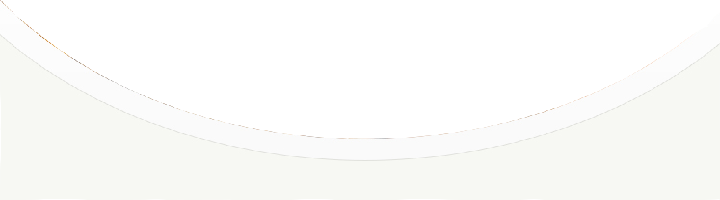
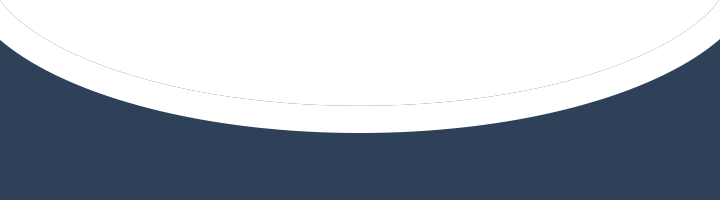
new theme

diff --git a/www/index.html b/www/index.html
@@ -34,7 +34,7 @@
 
                     <!--navigation btn goback class-->
                     <a  onclick="app.homeLink();" style="display: none;" data-activates="slide-out" class="nHeader goBack">
-                        <i class="fa fa-angle-left fa-2x" style="color:#ff7800"></i>
+                        <i class="fa fa-angle-left fa-2x" style="color:#fff"></i>
                     </a>
 
                     <!--Logo -->
@@ -44,7 +44,8 @@
 
                     <!--MEssage btn -->
                     <a id="msg_ico" class="msg_a dHeader2 auth" style="display: none;" onclick="app.chatLink();">
-                        <img src="img/ENGFeel_rakendus_avaleht_uus_06.jpg" class="msg_icon">
+<!--                        <img src="img/ENGFeel_rakendus_avaleht_uus_06.jpg" class="msg_icon">-->
+<i class="fa fa-comments fa-2x msg_icon" aria-hidden="true" ></i>
                         <span class="msgCount"></span>
                     </a>
 
@@ -73,7 +74,7 @@
                 </div>
 
                 <a  data-activates="slide-out" class="button-collapse auth" style="display:none">
-                    <i class="mdi-navigation-menu dHeader" style="color:#666666"></i>
+                    <i class="mdi-navigation-menu dHeader" style="color:#fff"></i>
                 </a>
 
 
@@ -138,7 +139,7 @@
 
             <div class="owl-carousel">
             </div>
-            <div class="center" style="width: 100% !important;position: relative;top: -67px;z-index: 1;height: 100px;">
+            <div class="center" style="width: 100% !important;position: relative;top: -58px;z-index: 1;height: 30px;">
                 <img src="img/profile_bakground_bottom_03.png" width="100% !important" style="
     opacity: 1 !important;
     z-index: 100;
@@ -303,31 +304,31 @@
             <form class="col s12" role="form" id="signupForm" enctype="multipart/form-data" action="/site/signup" onsubmit="event.preventDefault();app.signupForm(this);" method="post">
                 <div class="row">
                     <div class="input-field col s12">
-                        <input id="u_name" type="text" name="u_name"  class="validate">
+                        <input id="u_name" type="text" name="u_name"  class="validate" style="color:#fff;">
                         <label for="email">Name</label>
                     </div>
                 </div>
                 <div class="row">
                     <div class="input-field col s12">
-                        <input id="email" type="text" name="u_email" class="validate">
+                        <input id="email" type="text" name="u_email" class="validate" style="color:#fff;">
                         <label for="email">Email</label>
                     </div>
                 </div>
                 <div class="row">
                     <div class="input-field col s12">
-                        <input id="password" name="u_password" type="password" class="validate">
+                        <input id="password" name="u_password" type="password" class="validate" style="color:#fff;">
                         <label for="password" >Password</label>
                     </div>
                 </div>
                 <div class="row">
                     <div class="input-field col s12">
-                        <input id="u_contact" type="text" name="u_contact" class="validate">
+                        <input id="u_contact" type="text" name="u_contact" class="validate" style="color:#fff;">
                         <label for="u_contact">Contact</label>
                     </div>
                 </div>
                 <div class="row">
                     <div class="input-field col s12">
-                        <input id="u_age" type="number" name="u_age" class="validate">
+                        <input id="u_age" type="number" name="u_age" class="validate" style="color:#fff;">
                         <label for="u_age">Age</label>
                     </div>
                 </div>
@@ -431,9 +432,9 @@
                 <br>
                 <br>
                 <br>
-                <img width="60px" src="img/Feelwhite.png">
+                <!--<img width="60px" src="img/Feelwhite.png">-->
                 <br>
-                <p>feel version 1.0</p>
+                <p>version 1.0</p>
                 <br>
                 <br>
                 <div class="col s12 m12  center" >
@@ -450,7 +451,7 @@
     <script type="text/html" id="couponTemplate">
         <div class="couponss">
 
-        <h4 class="center">My coupons</h4>
+        <h4 class="center" style="color:#fff">My coupons</h4>
         <ul class="collection">
             <li class="collection-item row">
                 <div class="col s3 padding0">
@@ -569,7 +570,7 @@
         </div>
         <div class="row sendForm">
             <div class="col s12">
-                <input type="text" style="width: 80%;" id="messageInput">
+                <input type="text" style="width: 85%;color:white;" id="messageInput">
                 <button type="button" class="btn btn-floating " onclick="chat.clickSendMessage();"><i class="fa fa-send"></i></button>
             </div>
         </div>
@@ -614,17 +615,17 @@
 
             </div>
             <br>
-            <p>Show users aged: <span id="ageText" class="orange-text">25 - 30</span></p>
+            <p>Show users aged: <span id="ageText" >25 - 30</span></p>
 
             <div id="test5" class="margin10"></div>
 
             <br>
-                <p>Distance: <span class="orange-text"><span id="distanceText">_u_interest_distance_</span> km</span> </p>
+                <p>Distance: <span><span id="distanceText">_u_interest_distance_</span> km</span> </p>
                 <p class="range-field margin10">
                     <input type="range" id="distanceInput" min="0" max="100" value="_u_interest_distance_"/>
                 </p>
                 <p>Free coupon :
-                    <span ><span id="couponText" class="orange-text">_u_coupon_like_</span> likes</span>
+                    <span ><span id="couponText" >_u_coupon_like_</span> likes</span>
                     <a href="#aboutCoupon" class="modal-trigger right" style="color: #fff;"><i class="fa fa-question-circle" style="font-size: large;"></i>&nbsp;&nbsp;&nbsp;</a>
                 </p>
                 <p class="range-field margin10" >
@@ -633,19 +634,19 @@
             <div class="row ">
 
             <div class="col s6 padding5" >
-                <button onclick="app.notificationLink();" class="wordwrap btn  btn-round white black-text">Notifications</button>
+                <button onclick="app.notificationLink();" class="wordwrap btn  btn-round white" style="color:#fff" >Notifications</button>
 
             </div>
             <div class="col s6 padding5" >
-                <button class="wordwrap btn btn-round white black-text ">Report a problem</button>
+                <button class="wordwrap btn btn-round white " style="color:#fff">Report a problem</button>
             </div>
             </div>
             <div class="row">
             <div class="col s6 padding5" >
-                <button class="wordwrap btn btn-round white black-text">invite friends</button>
+                <button class="wordwrap btn btn-round white " style="color:#fff">invite friends</button>
             </div>
             <div class="col s6 padding5" >
-                <button class="wordwrap btn btn-round white black-text">need help?</button>
+                <button class="wordwrap btn btn-round white " style="color:#fff">need help?</button>
             </div>
             </div>
             <div class="col-s12" >
@@ -669,13 +670,13 @@
                 <input type="hidden" name="d_device_id">
                 <div class="row">
                     <div class="input-field col s12">
-                        <input id="email" type="text" name="u_email" class="validate">
+                        <input id="email" type="text" name="u_email" class="validate" style="color:#fff;">
                         <label for="email">Email</label>
                     </div>
                 </div>
                 <div class="row">
                     <div class="input-field col s12">
-                        <input id="password" name="u_password" type="password" class="validate">
+                        <input id="password" name="u_password" type="password" class="validate" style="color:#fff;">
                         <label for="password" >Password</label>
                     </div>
                 </div>
@@ -692,7 +693,7 @@
                 <br>
                 <div class="row">
                     <div class="col s6 m6 ">
-                        <h5 class="center">Sign in with</h5>
+                        <h5 class="center" style="color:#fff;">Sign in with</h5>
                     </div>
                     <div class="col s6 m6">
                         <a href="#" onclick="myFacebookLogin();"><i class="fa fa-facebook-square fa-3x " style="color:#3b5998;vertical-align: middle;"></i>&nbsp;Facebook</a>

diff --git a/www/libs/materialize/css/materialize.css b/www/libs/materialize/css/materialize.css
@@ -1308,7 +1308,7 @@
 }
 
 .light-green.accent-4 {
-  background-color: #fcfcfc !important;
+  background-color: #1a2b41 !important;
 }
 
 .light-green-text.text-accent-4 {
@@ -2108,7 +2108,7 @@
 }
 
 .grey.darken-4 {
-  background-color: #212121 !important;
+  background-color: #2f4158 !important;
   padding: 0 20px 0px 20px;
 }
 
@@ -2145,7 +2145,7 @@
 }
 
 .black-text {
-  color: #000000 !important;
+  color: #fff !important;
 }
 
 .white {
@@ -2594,7 +2594,7 @@ ul {
 }
 
 a {
-  color: #039be5;
+  color: #fff;
   text-decoration: none;
   -webkit-tap-highlight-color: transparent;
 }
@@ -7523,7 +7523,7 @@ html {
   line-height: 1.5;
   font-family: "Roboto", sans-serif;
   font-weight: normal;
-  color: rgba(0, 0, 0, 0.87);
+  color: #1a2b41;
 }
 
 @media only screen and (min-width: 0) {
@@ -8092,7 +8092,7 @@ small {
 .btn, .btn-large {
   text-decoration: none;
   color: #fff;
-  background-color: #ff7800;
+  background-color: #d9635b !important;
   text-align: center;
   letter-spacing: .5px;
   transition: .2s ease-out;
@@ -8100,7 +8100,7 @@ small {
 }
 
 .btn:hover, .btn-large:hover {
-  background-color: #ff7800;
+  background-color: #d9635b;
 }
 
 .btn-floating {
@@ -8698,7 +8698,7 @@ input[type=search],
 textarea.materialize-textarea {
   background-color: transparent;
   border: none;
-  border-bottom: 1px solid #9e9e9e;
+  border-bottom: 1px solid #fff;
   border-radius: 0;
   outline: none;
   height: 3rem;
@@ -8776,8 +8776,8 @@ input[type=tel]:focus:not([readonly]),
 input[type=number]:focus:not([readonly]),
 input[type=search]:focus:not([readonly]),
 textarea.materialize-textarea:focus:not([readonly]) {
-  border-bottom: 1px solid #ff7800;
-  box-shadow: 0 1px 0 0 #ff7800;
+  border-bottom: 1px solid #fff;
+  box-shadow: 0 1px 0 0 #fff;
 }
 
 input:not([type]):focus:not([readonly]) + label,
@@ -8792,7 +8792,7 @@ input[type=tel]:focus:not([readonly]) + label,
 input[type=number]:focus:not([readonly]) + label,
 input[type=search]:focus:not([readonly]) + label,
 textarea.materialize-textarea:focus:not([readonly]) + label {
-  color: #ff7800;
+  color: #fff;
 }
 
 input:not([type]).valid, input:not([type]):focus.valid,
@@ -8933,7 +8933,7 @@ textarea.materialize-textarea + label:after {
 }
 
 .input-field label {
-  color: #9e9e9e;
+  color: #fff;
   position: absolute;
   top: 0.8rem;
   left: 0.75rem;
@@ -9370,7 +9370,7 @@ form p:last-child {
 }
 
 .switch label input[type=checkbox]:checked + .lever {
-  background-color: #ff7800;
+  background-color: #1a2b41;
 }
 
 .switch label input[type=checkbox]:checked + .lever:after {
@@ -9597,7 +9597,7 @@ input[type=range] + .thumb {
   height: 0;
   width: 0;
   border-radius: 50%;
-  background-color: #ff7800;
+  background-color: #1a2b41;
   top: 10px;
   margin-left: -6px;
   -webkit-transform-origin: 50% 50%;
@@ -9647,7 +9647,7 @@ input[type=range]::-webkit-slider-thumb {
   height: 24px;
   width: 24px;
   border-radius: 50%;
-  background-color: #ff7800;
+  background-color: #fff;
   -webkit-transform-origin: 50% 50%;
   transform-origin: 50% 50%;
   margin: -9px 0 0 0;
@@ -9780,7 +9780,7 @@ select {
   height: calc(100% + 60px);
   height: -moz-calc(100%);
   padding-bottom: 60px;
-  background-color: #2b2b2a;
+  background-color: #1a2b41;
   z-index: 999;
   overflow-y: auto;
   will-change: left;
@@ -9807,7 +9807,7 @@ select {
 }
 
 .side-nav a {
-  color: #b2b3b1;
+  color: #fff;
   display: block;
   height: 64px;
   line-height: 64px;

diff --git a/www/css/index.css b/www/css/index.css
@@ -15,7 +15,7 @@ input{
     background-color: #fcfcfc !important;
 }
 body{
-	background-color:#f7f8f3;
+	background-color:#2f4158;
 }
 .margin0{
     margin: 0;
@@ -240,7 +240,7 @@ padding: 15px;
 }
 .onSwitch{
     border-radius: 20px;
-    color: #ff7800 !important;
+    color: #fff !important;
     padding: 0px 3rem;
 }
 .switchBox{

diff --git a/www/libs/noUiSlider/nouislider.css b/www/libs/noUiSlider/nouislider.css
@@ -188,7 +188,7 @@
 .noUi-connect {
 	height: 5px;
 	top: 6px;
-	background-color: #ff7800;
+	background-color: #1a2b41;
 	box-shadow: none;
 }
 
